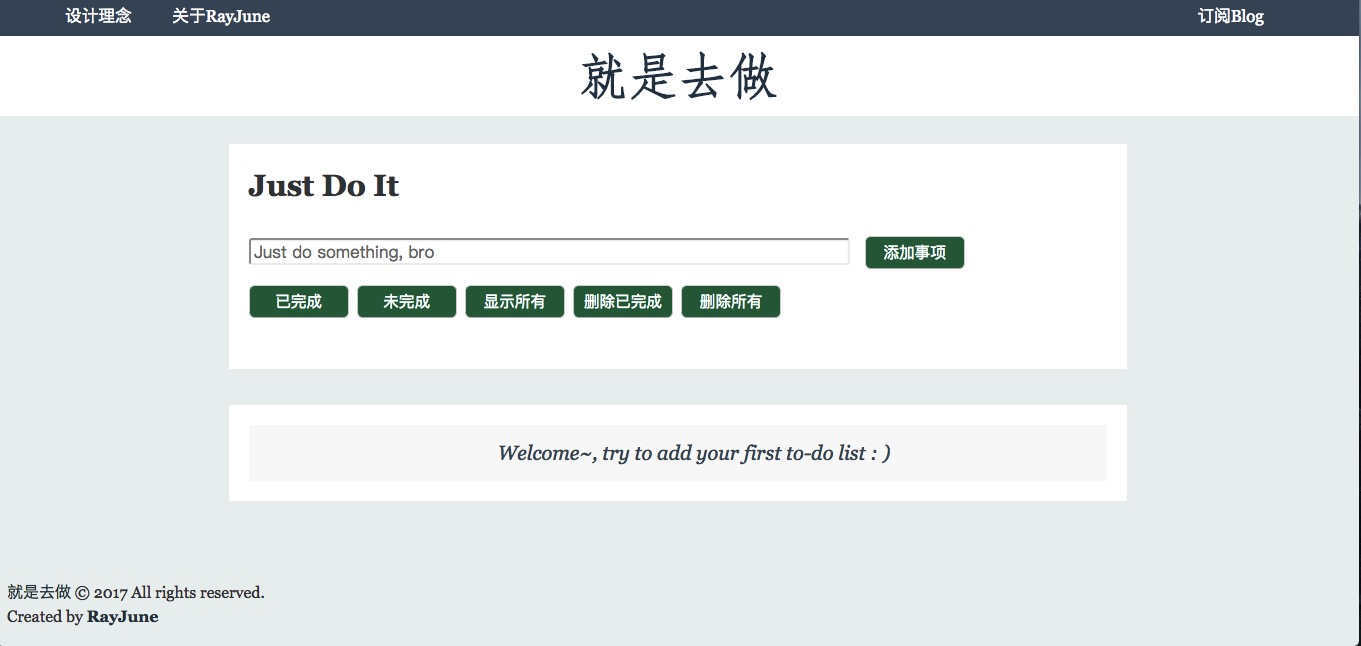
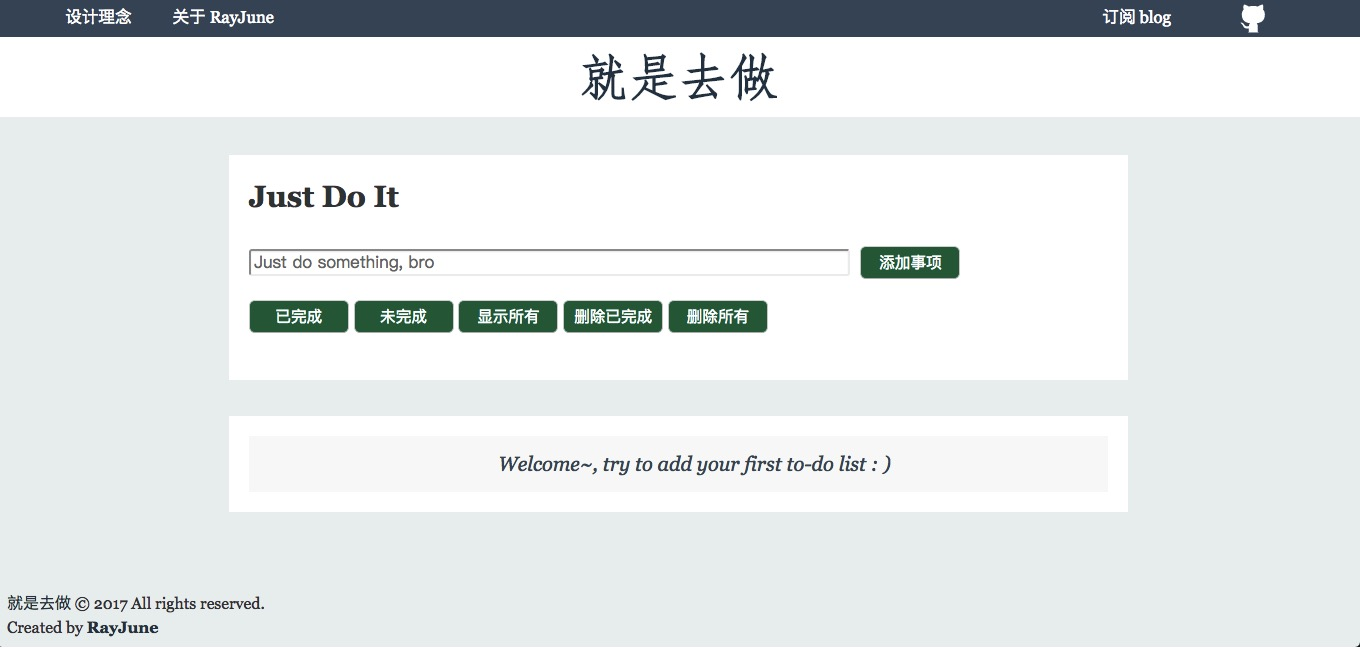
add custom github ribbion(use transform), update READEME

diff --git a/dist/styles/main.min.css b/dist/styles/main.min.css
@@ -1,1 +1,1 @@
-/*! normalize.css v7.0.0 | MIT License | github.com/necolas/normalize.css */html{line-height:1.15;-ms-text-size-adjust:100%;-webkit-text-size-adjust:100%}body{margin:0}article,aside,footer,header,nav,section{display:block}h1{font-size:2em;margin:.67em 0}figcaption,figure,main{display:block}figure{margin:1em 40px}hr{box-sizing:content-box;height:0;overflow:visible}pre{font-family:monospace,monospace;font-size:1em}a{background-color:transparent;-webkit-text-decoration-skip:objects}abbr[title]{border-bottom:none;text-decoration:underline;text-decoration:underline dotted}b,strong{font-weight:inherit}b,strong{font-weight:bolder}code,kbd,samp{font-family:monospace,monospace;font-size:1em}dfn{font-style:italic}mark{background-color:#ff0;color:#000}small{font-size:80%}sub,sup{font-size:75%;line-height:0;position:relative;vertical-align:baseline}sub{bottom:-.25em}sup{top:-.5em}audio,video{display:inline-block}audio:not([controls]){display:none;height:0}img{border-style:none}svg:not(:root){overflow:hidden}button,input,optgroup,select,textarea{font-family:sans-serif;font-size:100%;line-height:1.15;margin:0}button,input{overflow:visible}button,select{text-transform:none}[type=reset],[type=submit],button,html [type=button]{-webkit-appearance:button}[type=button]::-moz-focus-inner,[type=reset]::-moz-focus-inner,[type=submit]::-moz-focus-inner,button::-moz-focus-inner{border-style:none;padding:0}[type=button]:-moz-focusring,[type=reset]:-moz-focusring,[type=submit]:-moz-focusring,button:-moz-focusring{outline:1px dotted ButtonText}fieldset{padding:.35em .75em .625em}legend{box-sizing:border-box;color:inherit;display:table;max-width:100%;padding:0;white-space:normal}progress{display:inline-block;vertical-align:baseline}textarea{overflow:auto}[type=checkbox],[type=radio]{box-sizing:border-box;padding:0}[type=number]::-webkit-inner-spin-button,[type=number]::-webkit-outer-spin-button{height:auto}[type=search]{-webkit-appearance:textfield;outline-offset:-2px}[type=search]::-webkit-search-cancel-button,[type=search]::-webkit-search-decoration{-webkit-appearance:none}::-webkit-file-upload-button{-webkit-appearance:button;font:inherit}details,menu{display:block}summary{display:list-item}canvas{display:inline-block}template{display:none}[hidden]{display:none}:root{font-size:62.5%;height:100%;-webkit-box-sizing:border-box;box-sizing:border-box}*,:after,:before{-webkit-box-sizing:inherit;box-sizing:inherit}body{height:calc(100% - 15.6rem);font-family:Georgia,'Source Han Sans CN','Xin Gothic','Hiragino Sans GB','Microsoft YaHei',sans-serif;font-size:1.6rem;line-height:1.6;color:#3a4145;background:#ecf0f1}header{height:3.8rem;line-height:3.8rem;background-color:#456;color:#fff;position:fixed;top:0;z-index:100;width:100%}a{text-decoration:none;color:#2c3e50;-webkit-transition:color .36s;transition:color .36s}a:hover{color:#0d8}nav a{font-size:1.66rem;color:#fff;border-radius:.6rem;-webkit-transition:background-color .66s;transition:background-color .66s}nav a:hover{background-color:#0d8;color:#fff}.design{float:left;margin-left:5%}.about{float:left;margin-left:3%}.subscribe{float:right;margin-right:7%}.page-title{margin-left:auto;margin-right:auto;font-family:STFangsong,"Songti TC",simsun,Arial,serif;font-weight:700;text-align:center;background-color:#fff;height:8rem}.page-title a{line-height:8rem;font-size:5rem;-webkit-transition:color .88s;transition:color .88s}footer{height:7.5rem;padding:1rem 3.6rem 1.6rem 1rem;line-height:1.5}.clearfix::after,.clearfix::before{display:table;content:" "}.clearfix::after{clear:both}.content-area{min-height:calc(100% - 7.5rem);margin-top:15.6rem}.operate-area{margin-left:auto;margin-right:auto;padding:.8rem 2rem .66rem;width:66%;height:22.46rem;font-size:2rem;word-wrap:break-word;background-color:#fff;overflow:scroll}h2{margin-top:1rem}.add-area{display:-webkit-box;display:-ms-flexbox;display:flex;-webkit-box-orient:horizontal;-webkit-box-direction:normal;-ms-flex-direction:row;flex-direction:row;-webkit-box-align:center;-ms-flex-align:center;align-items:center;margin-bottom:2rem}#input{display:inline-block;width:70%;font-size:1.68rem;height:2.7rem;padding:.36rem;margin-right:1rem;border-radius:.3rem;-webkit-box-shadow:inset 0 .1rem .1rem rgba(0,0,0,.075);box-shadow:inset 0 .1rem .1rem rgba(0,0,0,.075)}button{cursor:pointer;padding:.8rem 0;font-size:1.56rem;line-height:1;width:10rem;border-radius:.6rem;color:#fff;background-color:#164;-webkit-transition:background-color .66s;transition:background-color .66s}button:hover{background-color:#0d8}ul{overflow:scroll;list-style:none;margin:3.6rem auto 1rem;padding:2rem;width:66%;background-color:#fff}li{cursor:pointer;padding:1.2rem .8rem 1.2rem 4rem;background:#eee;font-size:1.66rem;position:relative;-webkit-transition:.2s;transition:.2s;-webkit-user-select:none;-moz-user-select:none;-ms-user-select:none;user-select:none}li span{font-size:1.88rem;font-weight:700}li:nth-child(odd){background:#f9f9f9}li:hover{background:#ddd}li.finished{background:#888;color:#fff;text-decoration:line-through}li.finished::before{content:'';position:absolute;border-color:#fff;border-style:solid;border-width:0 .1rem .1rem 0;top:1.5rem;left:1.6rem;-webkit-transform:rotate(45deg);transform:rotate(45deg);height:1.5rem;width:.7rem}li.aphorism{cursor:default;font-size:2rem;text-align:center;color:#456;font-style:italic}.close{position:absolute;right:0;top:0;padding:1.2rem 1.6rem 1.2rem 1.6rem}.close:hover{background-color:#0d8;color:#fff}
+/*! normalize.css v7.0.0 | MIT License | github.com/necolas/normalize.css */html{line-height:1.15;-ms-text-size-adjust:100%;-webkit-text-size-adjust:100%}body{margin:0}article,aside,footer,header,nav,section{display:block}h1{font-size:2em;margin:.67em 0}figcaption,figure,main{display:block}figure{margin:1em 40px}hr{box-sizing:content-box;height:0;overflow:visible}pre{font-family:monospace,monospace;font-size:1em}a{background-color:transparent;-webkit-text-decoration-skip:objects}abbr[title]{border-bottom:none;text-decoration:underline;text-decoration:underline dotted}b,strong{font-weight:inherit}b,strong{font-weight:bolder}code,kbd,samp{font-family:monospace,monospace;font-size:1em}dfn{font-style:italic}mark{background-color:#ff0;color:#000}small{font-size:80%}sub,sup{font-size:75%;line-height:0;position:relative;vertical-align:baseline}sub{bottom:-.25em}sup{top:-.5em}audio,video{display:inline-block}audio:not([controls]){display:none;height:0}img{border-style:none}svg:not(:root){overflow:hidden}button,input,optgroup,select,textarea{font-family:sans-serif;font-size:100%;line-height:1.15;margin:0}button,input{overflow:visible}button,select{text-transform:none}[type=reset],[type=submit],button,html [type=button]{-webkit-appearance:button}[type=button]::-moz-focus-inner,[type=reset]::-moz-focus-inner,[type=submit]::-moz-focus-inner,button::-moz-focus-inner{border-style:none;padding:0}[type=button]:-moz-focusring,[type=reset]:-moz-focusring,[type=submit]:-moz-focusring,button:-moz-focusring{outline:1px dotted ButtonText}fieldset{padding:.35em .75em .625em}legend{box-sizing:border-box;color:inherit;display:table;max-width:100%;padding:0;white-space:normal}progress{display:inline-block;vertical-align:baseline}textarea{overflow:auto}[type=checkbox],[type=radio]{box-sizing:border-box;padding:0}[type=number]::-webkit-inner-spin-button,[type=number]::-webkit-outer-spin-button{height:auto}[type=search]{-webkit-appearance:textfield;outline-offset:-2px}[type=search]::-webkit-search-cancel-button,[type=search]::-webkit-search-decoration{-webkit-appearance:none}::-webkit-file-upload-button{-webkit-appearance:button;font:inherit}details,menu{display:block}summary{display:list-item}canvas{display:inline-block}template{display:none}[hidden]{display:none}:root{font-size:62.5%;height:100%;-webkit-box-sizing:border-box;box-sizing:border-box}*,:after,:before{-webkit-box-sizing:inherit;box-sizing:inherit}body{height:calc(100% - 15.6rem);font-family:Georgia,'Source Han Sans CN','Xin Gothic','Hiragino Sans GB','Microsoft YaHei',sans-serif;font-size:1.6rem;line-height:1.6;color:#3a4145;background:#ecf0f1}header{height:3.8rem;line-height:3.8rem;background-color:#456;color:#fff;position:fixed;top:0;z-index:100;width:100%}a{text-decoration:none;color:#2c3e50;-webkit-transition:color .36s;transition:color .36s}a:hover{color:#0d8}nav a{font-size:1.66rem;color:#fff;border-radius:.6rem;-webkit-transition:background-color .66s;transition:background-color .66s}nav a:hover{background-color:#0d8;color:#fff}.design{float:left;margin-left:5%}.about{float:left;margin-left:3%}.subscribe{float:right;margin-right:calc(8rem + 8%)}.page-title{margin-left:auto;margin-right:auto;font-family:STFangsong,"Songti TC",simsun,Arial,serif;font-weight:700;text-align:center;background-color:#fff;height:8rem}.page-title a{line-height:8rem;font-size:5rem;-webkit-transition:color .88s;transition:color .88s}footer{height:7.5rem;padding:1rem 3.6rem 1.6rem 1rem;line-height:1.5}.clearfix::after,.clearfix::before{display:table;content:" "}.clearfix::after{clear:both}.content-area{min-height:calc(100% - 7.5rem);margin-top:15.6rem}.operate-area{margin-left:auto;margin-right:auto;padding:.8rem 2rem .66rem;width:66%;height:22.46rem;font-size:2rem;word-wrap:break-word;background-color:#fff;overflow:scroll}h2{margin-top:1rem}.add-area{display:-webkit-box;display:-ms-flexbox;display:flex;-webkit-box-orient:horizontal;-webkit-box-direction:normal;-ms-flex-direction:row;flex-direction:row;-webkit-box-align:center;-ms-flex-align:center;align-items:center;margin-bottom:2rem}#input{display:inline-block;width:70%;font-size:1.68rem;height:2.7rem;padding:.36rem;margin-right:1rem;border-radius:.3rem;-webkit-box-shadow:inset 0 .1rem .1rem rgba(0,0,0,.075);box-shadow:inset 0 .1rem .1rem rgba(0,0,0,.075)}button{cursor:pointer;padding:.8rem 0;font-size:1.56rem;line-height:1;width:10rem;border-radius:.6rem;color:#fff;background-color:#164;-webkit-transition:background-color .66s;transition:background-color .66s}button:hover{background-color:#0d8}ul{overflow:scroll;list-style:none;margin:3.6rem auto 1rem;padding:2rem;width:66%;background-color:#fff}li{cursor:pointer;padding:1.2rem .8rem 1.2rem 4rem;background:#eee;font-size:1.66rem;position:relative;-webkit-transition:.2s;transition:.2s;-webkit-user-select:none;-moz-user-select:none;-ms-user-select:none;user-select:none}li span{font-size:1.88rem;font-weight:700}li:nth-child(odd){background:#f9f9f9}li:hover{background:#ddd}li.finished{background:#888;color:#fff;text-decoration:line-through}li.finished::before{content:'';position:absolute;border-color:#fff;border-style:solid;border-width:0 .1rem .1rem 0;top:1.5rem;left:1.6rem;-webkit-transform:rotate(45deg);transform:rotate(45deg);height:1.5rem;width:.7rem}li.aphorism{cursor:default;font-size:2rem;text-align:center;color:#456;font-style:italic}.close{position:absolute;right:0;top:0;padding:1.2rem 1.6rem 1.2rem 1.6rem}.close:hover{background-color:#0d8;color:#fff}

diff --git a/index.html b/index.html
@@ -9,14 +9,14 @@
   </head>
   <body>
     <header>
-      <nav class="clearfix">
+      <nav class="clearfix">        
         <a href="" class="design">设计理念</a>
-        <a href="https://rayjune.me/about" class="about">关于RayJune</a>
-        <a href="https://rayjune.me/atom.xml" class="subscribe">订阅Blog</a>
+        <a href="https://rayjune.me/about" class="about">关于 RayJune</a>
+        <a href="https://rayjune.me/atom.xml" class="subscribe">订阅 blog</a>
+        <a href="https://github.com/RayJune/JustToDo" class="github-corner" aria-label="View source on Github"><svg width="80" height="75" transform='rotate(-45)' viewBox="0 0 250 250" style="fill:#456; color:#fff; position: absolute; top: -0.36rem; border: 0; right: 5%;" aria-hidden="true"><path d="M0,0 L115,115 L130,115 L142,142 L250,250 L250,0 Z"></path><path d="M128.3,109.0 C113.8,99.7 119.0,89.6 119.0,89.6 C122.0,82.7 120.5,78.6 120.5,78.6 C119.2,72.0 123.4,76.3 123.4,76.3 C127.3,80.9 125.5,87.3 125.5,87.3 C122.9,97.6 130.6,101.9 134.4,103.2" fill="currentColor" style="transform-origin: 130px 106px;" class="octo-arm"></path><path d="M115.0,115.0 C114.9,115.1 118.7,116.5 119.8,115.4 L133.7,101.6 C136.9,99.2 139.9,98.4 142.2,98.6 C133.8,88.0 127.5,74.4 143.8,58.0 C148.5,53.4 154.0,51.2 159.7,51.0 C160.3,49.4 163.2,43.6 171.4,40.1 C171.4,40.1 176.1,42.5 178.8,56.2 C183.1,58.6 187.2,61.8 190.9,65.4 C194.5,69.0 197.7,73.2 200.1,77.6 C213.8,80.2 216.3,84.9 216.3,84.9 C212.7,93.1 206.9,96.0 205.4,96.6 C205.1,102.4 203.0,107.8 198.3,112.5 C181.9,128.9 168.3,122.5 157.7,114.1 C157.9,116.9 156.7,120.9 152.7,124.9 L141.0,136.5 C139.8,137.7 141.6,141.9 141.8,141.8 Z" fill="currentColor" class="octo-body"></path></svg></a><style>.github-corner:hover .octo-arm{animation:octocat-wave 560ms ease-in-out}@keyframes octocat-wave{0%,100%{transform:rotate(0)}20%,60%{transform:rotate(-25deg)}40%,80%{transform:rotate(10deg)}}@media (max-width:500px){.github-corner:hover .octo-arm{animation:none}.github-corner .octo-arm{animation:octocat-wave 560ms ease-in-out}}</style>
       </nav>
       <div class="page-title"><a href="https://rayjune.me">就是去做</a></div>
     </header>
-    
     <div class="content-area">
       <div class="operate-area">
           <h2>Just Do It</h2>
@@ -32,13 +32,11 @@
             <button id="showClear">删除所有</button>
           </div>
       </div>
-
       <div class="show-area">
         <ul id="list">
         </ul>
       </div>
     </div>
-
     <footer>
       <a href="https://github.com/RayJune/JustToDo">就是去做</a> © 2017 All rights reserved.
       <div class="author">
@@ -47,5 +45,5 @@
     </footer>
   </body>
   <script src="https://cdnjs.cloudflare.com/ajax/libs/handlebars.js/4.0.11/handlebars.runtime.min.js"></script>
-  <script src="./dist/scripts/bundle.js"></script>
+  <script src="./dist/scripts/bundle.min.js"></script>
 </html>

diff --git a/src/styles/layout.css b/src/styles/layout.css
@@ -63,7 +63,7 @@ nav a:hover {
 }
 .subscribe {
 	float: right;
-	margin-right: 7%;
+	margin-right: calc(8rem + 8%);
 }
 
 .page-title {
